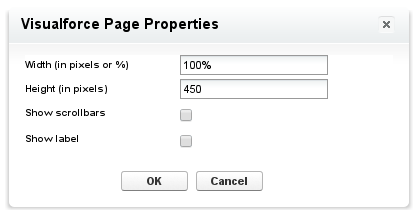
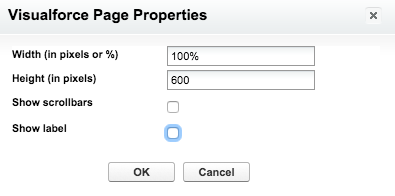
Changing the size of the contact layout on the guide

diff --git a/products/salesfetch.md b/products/salesfetch.md
@@ -71,9 +71,9 @@ You can now fill the Visualforce Markup text area with this code:
 
 ```html
 <apex:page StandardController="Contact" standardStylesheets="false" showheader="false" sidebar="false">
-    <anyfetch:IframeComponent Query="{!Contact.Name}" 
-        SFDCId="{!Contact.Id}" 
-        Display="{!Contact.Name}" 
+    <anyfetch:IframeComponent Query="{!Contact.Name}"
+        SFDCId="{!Contact.Id}"
+        Display="{!Contact.Name}"
         Type="Contact">
     </anyfetch:IframeComponent>
 </apex:page>
@@ -94,7 +94,7 @@ Name the newly created section `Context`, deselect `Edit Page` and select `1-Col
 
 ![Section properties](/images/products/salesfetch/section-properties.png)
 
-On the top of the page drag the **ContextContact** in **Visualforce Pages > ContextContact** and drop it in your **Context Panel**. A small wrench icon should be displayed on the top-right hand corner of the ContextContact panel, click on it to display the following modal panel. You can now adjust the size of the context page. Check that the Width property is set to `100%` and set the Height to at least `400px`. Then click on **Ok**.
+On the top of the page drag the **ContextContact** in **Visualforce Pages > ContextContact** and drop it in your **Context Panel**. A small wrench icon should be displayed on the top-right hand corner of the ContextContact panel, click on it to display the following modal panel. You can now adjust the size of the context page. Check that the Width property is set to `100%` and set the Height to at least `600px`. Then click on **Ok**.
 
 ![Visual force page properties](/images/products/salesfetch/visualforce-page-property.png)
 
@@ -117,9 +117,9 @@ You can now fill the Visualforce Markup text area with this code:
 
 ```html
 <apex:page StandardController="Contact" standardStylesheets="false" showheader="false" sidebar="false">
-    <anyfetch:IframeComponent Query="{!Contact.Name}" 
-        SFDCId="{!Contact.Id}" 
-        Display="{!Contact.Name}" 
+    <anyfetch:IframeComponent Query="{!Contact.Name}"
+        SFDCId="{!Contact.Id}"
+        Display="{!Contact.Name}"
         Type="Contact">
     </anyfetch:IframeComponent>
 </apex:page>
@@ -199,9 +199,9 @@ The idea is the same. However, you need to add `__c` to the name of your control
 
 ```html
 <apex:page StandardController="MyCustomObject__c" standardStylesheets="false" showheader="false" sidebar="false">
-    <anyfetch:IframeComponent Query="{!MyCustomObject__c.Name}" 
-        SFDCId="{!MyCustomObject__c.Id}" 
-        Display="{!MyCustomObject__c.Name}" 
+    <anyfetch:IframeComponent Query="{!MyCustomObject__c.Name}"
+        SFDCId="{!MyCustomObject__c.Id}"
+        Display="{!MyCustomObject__c.Name}"
         Type="MyCustomObject">
     </anyfetch:IframeComponent>
 </apex:page>
